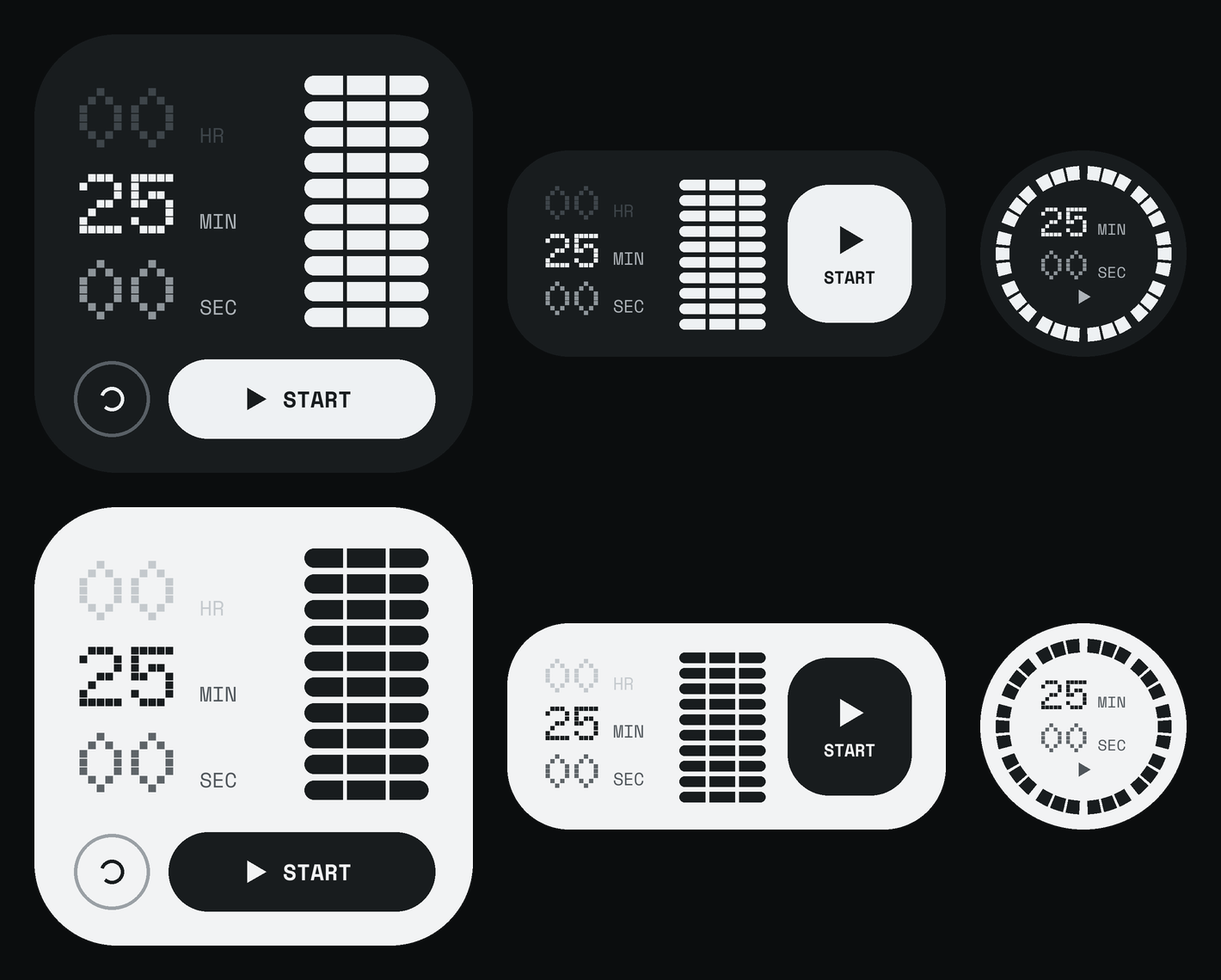
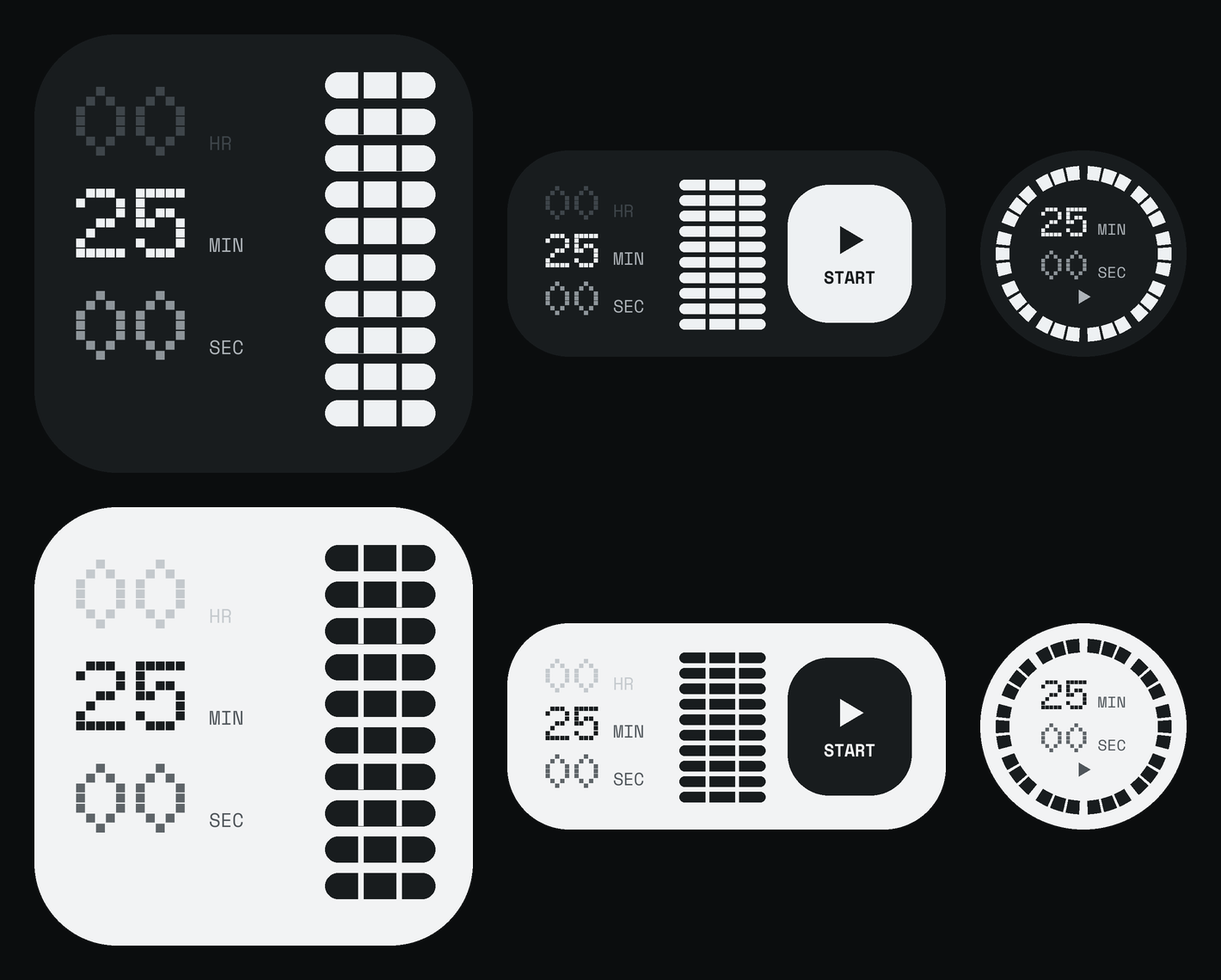
Parallax 2.1: button-free 2x2 widget, wallpaper colours, plain keypad
- 2x2 widget: no Reset/Start buttons. Tap the time to start/pause/dismiss,
  tap the pills to open the app; a small Reset chip (and its tap area)
  shows only while paused or after time's up.
- New Settings > Widgets switch "Wallpaper colours": pills and the 1x1 ring
  use the system accent colour while setting or running (off by default).
- Typing keypad: Doto digits, no sheet, border or key fills, ripple press,
  64 dp rows; 0 and 00 dim while nothing is typed.
- Typing: the status line keeps its 32 dp while hidden, so the face no
  longer touches the time chip.

Changed region(s): [[0.062, 0.5526, 0.3718, 0.9518], [0.062, 0.0614, 0.3718, 0.4605]]

diff --git a/docs/index.html b/docs/index.html
@@ -242,7 +242,7 @@ footer nav{display:flex;flex-wrap:wrap;gap:16px}
   <div class="wrap">
     <div class="col">
       <h2>Widgets and themes</h2>
-      <p>Three home screen widgets: a 2×2, a 2×1 and a round 1×1. Hours, minutes and seconds in dot-matrix digits, with 10 pills that empty a third at a time as the countdown runs (a ring of thirds on the 1×1). They tick every second, pulse red at time's up, and start the time you last set. A translucent background is an option.</p>
+      <p>Three home screen widgets: a 2×2, a 2×1 and a round 1×1. Hours, minutes and seconds in dot-matrix digits, with 10 pills that empty a third at a time as the countdown runs (a ring of thirds on the 1×1). They tick every second, pulse red at time's up, and start the time you last set. The 2×2 has no buttons: tap the time to start or pause, and a small Reset appears while paused. Pills and ring can take your wallpaper's colours, and a translucent background is an option.</p>
       <p>The app and widgets come in light and dark, following the phone or set by hand. On a Nothing phone the app uses the NDot font already on the phone, so it matches the rest of Nothing OS.</p>
     </div>
     <div class="pair">

diff --git a/app/src/com/glyphcountdown/app/MainActivity.java b/app/src/com/glyphcountdown/app/MainActivity.java
@@ -10,7 +10,9 @@ import android.graphics.Color;
 import android.graphics.Paint;
 import android.graphics.Path;
 import android.graphics.RectF;
+import android.content.res.ColorStateList;
 import android.graphics.drawable.GradientDrawable;
+import android.graphics.drawable.RippleDrawable;
 import android.hardware.Sensor;
 import android.hardware.SensorEvent;
 import android.hardware.SensorEventListener;
@@ -39,7 +41,7 @@ import android.widget.TextView;
 public class MainActivity extends Activity implements TimerState.Listener, DialView.Listener, SensorEventListener {
     // set from Palette in onCreate: BLACK is the background role, WHITE the foreground role
     private static int BLACK, WHITE, GREY, BORDER;
-    private int SUB, FAINT, CHIP, KEY, SHEET, OFF;
+    private int SUB, FAINT, CHIP, KEY, KEY_PRESS, OFF;
     private static final int RED = 0xFFE8202A;
     private boolean appliedDark;
 
@@ -54,7 +56,7 @@ public class MainActivity extends Activity implements TimerState.Listener, DialV
     private final TextView[] segDigits = new TextView[3];
     private final TextView[] segUnits = new TextView[3];
     private final LinearLayout[] segs = new LinearLayout[3];
-    private TextView setKey;
+    private TextView setKey, key0, key00;
     private ResetButton reset;
     private int bottomInset;
 
@@ -85,7 +87,7 @@ public class MainActivity extends Activity implements TimerState.Listener, DialV
         FAINT = pal.dark ? 0xFF666D72 : 0xFF868C91;
         CHIP = pal.dark ? 0xFF0B0D0E : 0xFFFFFFFF;
         KEY = pal.dark ? 0xFF1E2225 : 0xFFFFFFFF;
-        SHEET = pal.dark ? 0xFF121517 : 0xFFE6E8EA;
+        KEY_PRESS = pal.dark ? 0xFF2C3236 : 0xFFD3D7DA;
         OFF = pal.dark ? 0xFF4A5055 : 0xFFB8BDC1;
         Palette.applyBars(this, pal);
         dp = getResources().getDisplayMetrics().density;
@@ -235,13 +237,9 @@ public class MainActivity extends Activity implements TimerState.Listener, DialV
         // the keypad: slides up while typing; the big chip above is the readout
         keypad = new LinearLayout(this);
         keypad.setOrientation(LinearLayout.VERTICAL);
-        GradientDrawable sheet = new GradientDrawable();
-        float r = px(28);
-        sheet.setCornerRadii(new float[]{r, r, r, r, 0, 0, 0, 0});
-        sheet.setColor(SHEET);
-        sheet.setStroke(px(1), BORDER);
-        keypad.setBackground(sheet);
-        keypad.setClickable(true); // taps on the sheet's gaps don't fall through
+        // plain keys on the page background: no sheet, no border, no key fills
+        keypad.setBackgroundColor(BLACK);
+        keypad.setClickable(true); // taps between keys don't fall through
         String[][] keys = {{"1", "2", "3"}, {"4", "5", "6"}, {"7", "8", "9"}, {"00", "0", "DEL"}};
         for (int row = 0; row < 4; row++) {
             LinearLayout line = new LinearLayout(this);
@@ -253,22 +251,25 @@ public class MainActivity extends Activity implements TimerState.Listener, DialV
                     del.setContentDescription("Delete");
                     key = del;
                 } else {
-                    TextView t = text(k, 24, WHITE, Fonts.monoBold(this));
+                    TextView t = text(k, 36, WHITE, Fonts.doto(this));
                     t.setGravity(Gravity.CENTER);
+                    if ("0".equals(k)) key0 = t;
+                    if ("00".equals(k)) key00 = t;
                     key = t;
                 }
-                key.setBackground(rounded(KEY, px(18)));
+                // pressing shows a soft circle that fades out
+                RippleDrawable press = new RippleDrawable(ColorStateList.valueOf(KEY_PRESS), null, null);
+                press.setRadius(px(32));
+                key.setBackground(press);
                 key.setClickable(true);
                 key.setFocusable(true);
                 key.setOnClickListener(new View.OnClickListener() {
                     @Override public void onClick(View v) { onKey(k); }
                 });
-                LinearLayout.LayoutParams kl = new LinearLayout.LayoutParams(0, px(52), 1);
-                if (cI > 0) kl.leftMargin = px(6);
+                LinearLayout.LayoutParams kl = new LinearLayout.LayoutParams(0, px(64), 1);
                 line.addView(key, kl);
             }
             LinearLayout.LayoutParams ll = new LinearLayout.LayoutParams(-1, -2);
-            if (row > 0) ll.topMargin = px(6);
             keypad.addView(line, ll);
         }
         setKey = text("CANCEL", 15, BLACK, Fonts.monoBold(this));
@@ -278,7 +279,7 @@ public class MainActivity extends Activity implements TimerState.Listener, DialV
             @Override public void onClick(View v) { onSet(); }
         });
         LinearLayout.LayoutParams skl = new LinearLayout.LayoutParams(-1, px(52));
-        skl.topMargin = px(8);
+        skl.topMargin = px(12);
         keypad.addView(setKey, skl);
         keypad.setVisibility(View.GONE);
         root.addView(keypad, new FrameLayout.LayoutParams(-1, -2, Gravity.BOTTOM));
@@ -453,7 +454,7 @@ public class MainActivity extends Activity implements TimerState.Listener, DialV
         chipRow.setVisibility(typing ? View.GONE : View.VISIBLE);
         controls.setVisibility(typing ? View.INVISIBLE : View.VISIBLE);
         hint.setVisibility(typing ? View.INVISIBLE : View.VISIBLE);
-        status.setVisibility(typing ? View.GONE : View.VISIBLE);
+        status.setVisibility(typing ? View.INVISIBLE : View.VISIBLE); // keeps its 32 dp gap under the dial
         bigChip.setBackground(rounded(Color.TRANSPARENT, px(32), typing ? WHITE : BORDER, typing ? 1.5f : 1f));
         dial.setTyping(typing, typing && !typed.isEmpty() && typedSeconds() <= 86399 ? typedSeconds() : st.setSeconds());
 
@@ -478,6 +479,9 @@ public class MainActivity extends Activity implements TimerState.Listener, DialV
             interp.setText(line);
             interp.setTextColor(tooBig ? RED : typed.isEmpty() ? SUB : WHITE);
             boolean canSet = !tooBig;
+            int zeroKeys = typed.isEmpty() ? OFF : WHITE; // a leading zero does nothing
+            key0.setTextColor(zeroKeys);
+            key00.setTextColor(zeroKeys);
             setKey.setText(typed.isEmpty() ? "CANCEL" : "SET " + h + ":" + two(m) + ":" + two(s));
             setKey.setBackground(pill(canSet ? WHITE : KEY, 0));
             setKey.setTextColor(canSet ? BLACK : OFF);
@@ -555,6 +559,7 @@ public class MainActivity extends Activity implements TimerState.Listener, DialV
         st.addListener(this);
         if (gravity != null) sensors.registerListener(this, gravity, SensorManager.SENSOR_DELAY_UI);
         refresh();
+        WidgetUpdater.updateAll(this); // picks up a new wallpaper colour for the widgets
     }
 
     @Override

diff --git a/app/src/com/glyphcountdown/app/WidgetRenderer.java b/app/src/com/glyphcountdown/app/WidgetRenderer.java
@@ -9,7 +9,9 @@ import android.graphics.RectF;
 
 /**
  * Draws a widget as one bitmap (home screen widgets cannot host custom views).
- * Button positions match the transparent tap areas in res/layout/widget_*.xml.
+ * Button positions match the transparent tap areas in res/layout/widget_*.xml. The 2×2 has no
+ * buttons: tapping the time starts or pauses, tapping the pills opens the app, and a small Reset
+ * chip shows only while paused or after time's up.
  *
  * The time is three rows of dot-matrix digits (HR / MIN / SEC; two rows on the 1×1). Progress is
  * 10 pills, each 1/10 of the time that was set, split into thirds of 1/30: lit thirds =
@@ -85,11 +87,25 @@ final class WidgetRenderer {
         return (int) Math.min(30, Math.ceil(st.remainingNow() * 30.0 / st.totalMs));
     }
 
-    static Bitmap render(Context c, int kind, int w, int h, TimerState st, boolean dark, boolean translucent) {
+    /** Whether the 2×2 shows its Reset chip (and so its tap area): only while paused or ringing. */
+    static boolean showsReset(TimerState st) {
+        return st.mode == TimerState.PAUSE || st.mode == TimerState.DONE;
+    }
+
+    /**
+     * Draws one widget. wallpaper: lit and empty thirds take the wallpaper's accent (Material You
+     * system colours) while setting or running; paused stays grey and time's up stays red.
+     */
+    static Bitmap render(Context c, int kind, int w, int h, TimerState st, boolean dark, boolean translucent,
+                         boolean wallpaper) {
         Theme t = dark ? DARK : LIGHT;
         Bitmap bm = Bitmap.createBitmap(Math.max(w, 1), Math.max(h, 1), Bitmap.Config.ARGB_8888);
         Canvas cv = new Canvas(bm);
         Look l = look(st, t);
+        if (wallpaper && (st.mode == TimerState.SET || st.mode == TimerState.RUN)) {
+            l.on = c.getColor(dark ? android.R.color.system_accent1_200 : android.R.color.system_accent1_600);
+            l.off = c.getColor(dark ? android.R.color.system_accent1_800 : android.R.color.system_accent1_100);
+        }
         Paint p = new Paint(Paint.ANTI_ALIAS_FLAG);
         p.setColor(translucent ? t.cardTranslucent : t.card);
 
@@ -104,18 +120,25 @@ final class WidgetRenderer {
         if (kind == K4) {
             float k = Math.min(w, h) / 255f;
             cv.drawRoundRect(new RectF(0, 0, w, h), 48 * k, 48 * k, p);
-            rows3(cv, l, doto, mono, 26 * k, 24 * k, 50 * k, 4 * k, 12 * k, 10 * k);
-            pills(cv, l, w - 26 * k - 72 * k, 24 * k, 72 * k, 11 * k, 4 * k, 2 * k);
-            // button row: reset, then the labelled start/pause button filling the rest
-            float by = h - 66 * k, bh = 46 * k; // 74 %–92 % of a square widget, matching widget_2x2.xml
-            Paint ring = new Paint(Paint.ANTI_ALIAS_FLAG);
-            ring.setStyle(Paint.Style.STROKE);
-            ring.setStrokeWidth(2 * k);
-            ring.setColor(t.line);
-            cv.drawCircle(22 * k + bh / 2, by + bh / 2, bh / 2 - k, ring);
-            resetIcon(cv, 22 * k + bh / 2, by + bh / 2, 7 * k, t.fg, k);
-            float bx = 22 * k + bh + 10 * k;
-            labelButton(cv, l, bold, new RectF(bx, by, w - 22 * k, by + bh), bh / 2, 13 * k, 16 * k, k, false);
+            // no buttons: the time fills the card (tap it to start or pause), pills on the right
+            rows3(cv, l, doto, mono, 24 * k, 22 * k, 58 * k, 6 * k, 11 * k, 8 * k);
+            pills(cv, l, w - 22 * k - 64 * k, 22 * k, 64 * k, 15 * k, 6.2f * k, 3 * k);
+            if (showsReset(st)) {
+                // small Reset chip bottom-left, matching w_reset in widget_2x2.xml (x 0–49 %, y 80–100 %)
+                RectF r = new RectF(20 * k, 206 * k, 112 * k, 234 * k);
+                Paint ring = new Paint(Paint.ANTI_ALIAS_FLAG);
+                ring.setStyle(Paint.Style.STROKE);
+                ring.setStrokeWidth(1.5f * k);
+                ring.setColor(withAlpha(l.done ? t.red : t.line, l.alpha));
+                cv.drawRoundRect(r, r.height() / 2, r.height() / 2, ring);
+                int fg = withAlpha(l.done ? t.red : t.fg, l.alpha);
+                resetIcon(cv, r.left + 15 * k, r.centerY(), 5.5f * k, fg, k);
+                bold.setTextSize(10 * k);
+                bold.setLetterSpacing(0.2f);
+                bold.setColor(fg);
+                Paint.FontMetrics fm = bold.getFontMetrics();
+                cv.drawText("RESET", r.left + 27 * k, r.centerY() - (fm.ascent + fm.descent) / 2, bold);
+            }
         } else if (kind == K2) {
             float k = Math.min(h / 120f, w / 255f);
             cv.drawRoundRect(new RectF(0, 0, w, h), 36 * k, 36 * k, p);

diff --git a/app/src/com/glyphcountdown/app/WidgetUpdater.java b/app/src/com/glyphcountdown/app/WidgetUpdater.java
@@ -7,6 +7,7 @@ import android.content.Context;
 import android.content.Intent;
 import android.graphics.Bitmap;
 import android.os.Bundle;
+import android.view.View;
 import android.widget.RemoteViews;
 
 /** Redraws every placed widget from the current timer state. */
@@ -41,6 +42,7 @@ final class WidgetUpdater {
 
             TimerState st = TimerState.get();
             boolean translucent = Prefs.get(c, Prefs.TRANSLUCENT);
+            boolean wallpaper = Prefs.get(c, Prefs.WALLPAPER_COLOURS);
             // Both appearances are sent; the layout and layout-night variants each show one, so the
             // widget follows Settings › Display › Appearance even when this app isn't running.
             // Theme chosen in Settings: Light or Dark fills both slots with that theme, so the
@@ -48,10 +50,10 @@ final class WidgetUpdater {
             String theme = Palette.choice(c);
             Bitmap light, dark;
             if (Palette.PHONE.equals(theme)) {
-                light = WidgetRenderer.render(c, kind, w, h, st, false, translucent);
-                dark = WidgetRenderer.render(c, kind, w, h, st, true, translucent);
+                light = WidgetRenderer.render(c, kind, w, h, st, false, translucent, wallpaper);
+                dark = WidgetRenderer.render(c, kind, w, h, st, true, translucent, wallpaper);
             } else {
-                light = dark = WidgetRenderer.render(c, kind, w, h, st, Palette.DARK.equals(theme), translucent);
+                light = dark = WidgetRenderer.render(c, kind, w, h, st, Palette.DARK.equals(theme), translucent, wallpaper);
             }
             String pkg = c.getPackageName();
             int layout = res(c, "layout", kind == WidgetRenderer.K1 ? "widget_1x1"
@@ -79,10 +81,11 @@ final class WidgetUpdater {
                         new Intent(c, TimerService.class).setAction(TimerService.ACTION_RESET)
                                 .putExtra(TimerService.EXTRA_FG, true),
                         PendingIntent.FLAG_IMMUTABLE | PendingIntent.FLAG_UPDATE_CURRENT);
-                rv.setOnClickPendingIntent(res(c, "id", "w_reset"), reset);
-                for (String n : new String[]{"w_open", "w_open2", "w_open3", "w_open4"}) {
-                    rv.setOnClickPendingIntent(res(c, "id", n), open);
-                }
+                int resetId = res(c, "id", "w_reset");
+                rv.setOnClickPendingIntent(resetId, reset);
+                // the Reset chip and its tap area exist only while paused or ringing
+                rv.setViewVisibility(resetId, WidgetRenderer.showsReset(st) ? View.VISIBLE : View.GONE);
+                rv.setOnClickPendingIntent(res(c, "id", "w_open"), open);
             }
             m.updateAppWidget(id, rv);
         }

diff --git a/tools/make_previews.py b/tools/make_previews.py
@@ -60,21 +60,9 @@ def make(theme, suffix):
     w = h = 510; k = w / 255 * S
     im = Image.new("RGBA", (w * S, h * S), (0, 0, 0, 0)); d = ImageDraw.Draw(im)
     d.rounded_rectangle([0, 0, w * S - 1, h * S - 1], radius=48 * k, fill=t["card"])
-    rows3(d, t, 26 * k, 24 * k, 50 * k, 4 * k, 12 * k, 10 * k)
-    pills(d, t, w * S - 26 * k - 72 * k, 24 * k, 72 * k, 11 * k, 4 * k, 2 * k)
-    by, bh = h * S - 66 * k, 46 * k
-    cx = 22 * k + bh / 2
-    d.ellipse([22 * k + k, by + k, 22 * k + bh - k, by + bh - k], outline=t["line"], width=int(2 * k))
-    r = 7 * k
-    d.arc([cx - r, by + bh / 2 - r, cx + r, by + bh / 2 + r], 200, 130, fill=t["fg"], width=int(2 * k))
-    bx = 22 * k + bh + 10 * k
-    d.rounded_rectangle([bx, by, w * S - 22 * k, by + bh], radius=bh / 2, fill=t["btn"])
-    f = mono(13 * k, True)
-    tw = d.textlength("START", font=f) + 13 * k * 0.12 * 4
-    total = 16 * k + 8 * k + tw
-    ix = (bx + w * S - 22 * k) / 2 - total / 2 + 8 * k
-    play(d, ix, by + bh / 2, 8 * k, t["btnfg"])
-    d.text((ix + 8 * k + 8 * k, by + bh / 2), "START", font=f, fill=t["btnfg"], anchor="lm")
+    # no buttons: tap the time to start or pause, the pills to open the app (Reset shows only when paused)
+    rows3(d, t, 24 * k, 22 * k, 58 * k, 6 * k, 11 * k, 8 * k)
+    pills(d, t, w * S - 22 * k - 64 * k, 22 * k, 64 * k, 15 * k, 6.2 * k, 3 * k)
     im.resize((w, h), Image.LANCZOS).save(f"app/res/drawable-nodpi/widget_prev{suffix}_4.png")
     # 2×1
     w, h = 510, 240; k = min(h / 120, w / 255) * S

diff --git a/app/src/com/glyphcountdown/app/SettingsActivity.java b/app/src/com/glyphcountdown/app/SettingsActivity.java
@@ -158,6 +158,8 @@ public class SettingsActivity extends Activity {
                 "Dark while the screen is on. In a pocket, a bag or face-up on a table it's always dark, by itself."), rowLp());
 
         section(col, "WIDGETS");
+        col.addView(toggle(Prefs.WALLPAPER_COLOURS, "Wallpaper colours",
+                "Pills and ring use your wallpaper's accent colour. Off: white, like the matrix."), rowLp());
         col.addView(toggle(Prefs.TRANSLUCENT, "Translucent background",
                 "See-through widgets, like Nothing OS 5.0’s translucent style."), rowLp());
 
@@ -232,7 +234,7 @@ public class SettingsActivity extends Activity {
                 sw.invalidate();
                 Prefs.set(SettingsActivity.this, key, sw.on);
                 row.setContentDescription(label + ", " + (sw.on ? "on" : "off"));
-                if (Prefs.TRANSLUCENT.equals(key)) WidgetUpdater.updateAll(SettingsActivity.this);
+                if (Prefs.TRANSLUCENT.equals(key) || Prefs.WALLPAPER_COLOURS.equals(key)) WidgetUpdater.updateAll(SettingsActivity.this);
             }
         });
         return row;

diff --git a/app/src/com/glyphcountdown/app/Prefs.java b/app/src/com/glyphcountdown/app/Prefs.java
@@ -5,7 +5,7 @@ import android.content.SharedPreferences;
 
 /** On/off settings from the Settings screen. */
 final class Prefs {
-    static final String TRANSLUCENT = "widget_translucent",
+    static final String TRANSLUCENT = "widget_translucent", WALLPAPER_COLOURS = "widget_wallpaper_colours",
             VIBRATE = "alarm_vibrate", SCREEN_OFF_ONLY = "matrix_screen_off_only", SYNC = "anim_sync",
             DIM = "anim_dim", PICKUP_DISMISS = "pickup_dismiss";
     private static final String ANIM = "times_up_animation";
@@ -17,7 +17,8 @@ final class Prefs {
     }
 
     static boolean get(Context c, String key) {
-        return p(c).getBoolean(key, !TRANSLUCENT.equals(key)); // everything but translucency defaults on
+        // everything defaults on except the two widget looks, which keep the plain style until chosen
+        return p(c).getBoolean(key, !TRANSLUCENT.equals(key) && !WALLPAPER_COLOURS.equals(key));
     }
 
     static void set(Context c, String key, boolean on) {

diff --git a/tools/ApkBuilder.java b/tools/ApkBuilder.java
@@ -61,7 +61,7 @@ public class ApkBuilder {
         }
         String[][] widgets = {{"1", "1x1", "Time left inside a ring of thirds. Tap to start or pause."},
                 {"2", "2x1", "Hours, minutes and seconds with a start/pause button."},
-                {"4", "2x2", "Hours, minutes, seconds and pills in thirds, with reset and start/pause."}};
+                {"4", "2x2", "Hours, minutes, seconds and pills in thirds. Tap the time to start or pause."}};
         for (String[] wd : widgets) {
             for (String v : new String[]{"widget_prev_", "widget_prev_light_"}) {
                 pkg.getOrCreate("-nodpi", "drawable", v + wd[0])

diff --git a/CLAUDE.md b/CLAUDE.md
@@ -9,12 +9,14 @@ Parallax (formerly Glyph Countdown) is an Android countdown timer for the Nothin
 - **Repository:** `m0n0t0ne0ne/glyph-countdown`, default branch `main`. Use this repo, not the old `miesesk` one.
 - **Website:** https://m0n0t0ne0ne.github.io/glyph-countdown/, served by GitHub Pages from `/docs` on `main`.
 - **Releases:** https://github.com/m0n0t0ne0ne/glyph-countdown/releases/latest. The APK is named `Parallax-<version>.apk` (`GlyphCountdown-…` up to 1.5.2).
-- **Current release:** **2.0** (versionCode 19): the rename to Parallax, the face-as-dial timer screen with Google Clock-style typing, the new widget suite and icon.
+- **Current release:** **2.1** (versionCode 21): button-free 2×2 widget (tap the time to start/pause, Reset only while paused), wallpaper colours for widgets, plain Doto keypad.
 - **Stack:** plain Java, with no Gradle and no Android Studio. `setup-deps.sh` downloads pinned build tools into `deps/`, and `build.sh` builds `out/Parallax.apk`. Nothing's Glyph Matrix SDK is downloaded at build time and is never committed, because its licence forbids redistributing it.
[1 lines of base64/hex data omitted]
 
 | Version | Change |
 | --- | --- |
+| 2.1 | Button-free 2×2 widget, wallpaper colours for widgets, plain Doto keypad, gap under the face while typing |
+| 2.0.1 | Timer screen text fits on a real phone |
 | 2.0 | Renamed Parallax; face-as-dial timer screen, typed times, new widgets and icon |
 | 1.5.2 | **00** button to the right of Start zeroes the dial (setting only; greyed out while running or paused) |
 | 1.5.1 | No dark gap when laying the phone down or picking it up |
@@ -120,7 +122,7 @@ All app code is in `app/src/com/glyphcountdown/app/`. These are the files most c
 | `MatrixRenderer.java` | 25 × 25 and 13 × 13 frames. No Android code, so it runs on a desktop JVM |
 | `MorphEngine.java`, `SoundSync.java` | Time's-up animations and stutter sync to the alarm sound |
 | `TimesUpActivity.java`, `Prefs.java` | Time's up page and saved switches (all on by default except translucent widgets) |
-| `Widget*.java`, `WidgetRenderer.java` | Home-screen widgets (2.0): three rows of dot digits and 10 pills split into thirds; the 1×1 has a ring of thirds. Previews come from `tools/make_previews.py`, the icon from `tools/make_icon.py` |
+| `Widget*.java`, `WidgetRenderer.java` | Home-screen widgets (2.0): three rows of dot digits and 10 pills split into thirds; the 1×1 has a ring of thirds. The 2×2 has no buttons (2.1): tap the time to toggle, the pills to open the app; `w_reset` is shown only while paused or ringing. Widgets can only receive taps: a swipe test on the Phone (3) showed sideways swipes go to the launcher and up/down swipes never reach the app. Previews come from `tools/make_previews.py`, the icon from `tools/make_icon.py` |
 | `.github/workflows/release.yml` | Auto-release on a version change, gated by the `release` environment |
 | `docs/` | Website (`index.html`, `assets/`), design images, release notes |
 

diff --git a/README.md b/README.md
@@ -44,7 +44,7 @@
   - **Sync with alarm sound:** the animation stutters on every note, snapping back, holding, then carrying on.
   - **Dim with notes**, with a **Dim level** slider; **Vibrate**; **Pick up to dismiss**.
 - **Both matrix sizes:** on the Phone (3)'s 25 × 25 matrix, H:MM from an hour up, then MM:SS. On the Phone (4a) Pro's 13 × 13 matrix, one number: hours, minutes, or seconds in the last minute.
-- **Widgets:** a 2×2, a 2×1 and a round 1×1. Hours, minutes and seconds in dot-matrix digits, with 10 pills that empty a third at a time as the countdown runs (a ring of thirds on the 1×1). They tick every second, pulse red at time's up, and start the time you last set. Translucent background optional.
+- **Widgets:** a 2×2, a 2×1 and a round 1×1. Hours, minutes and seconds in dot-matrix digits, with 10 pills that empty a third at a time as the countdown runs (a ring of thirds on the 1×1). They tick every second, pulse red at time's up, and start the time you last set. The 2×2 has no buttons: tap the time to start or pause, and a small Reset appears while paused. Optional: a translucent background, and pills and ring in your wallpaper's colours.
 - **Light and dark:** the app and widgets follow the phone or a theme you pick. On a Nothing phone the app uses the NDot font already on the phone.
 - **TalkBack:** the face announces the time and can be adjusted by swiping up or down.
 
@@ -82,7 +82,7 @@ Tap the gear on the timer screen.
 | Time's up | Animation, sound, sync, dimming, dim level, vibrate, pick up to dismiss |
 | Glyph Matrix | Countdown style · Only when screen is off |
 | Appearance | Theme: Phone, Light or Dark |
-| Widgets | Translucent background |
+| Widgets | Wallpaper colours, Translucent background |
 
 ### Good to know
 

diff --git a/docs/release-notes/v2.1.md b/docs/release-notes/v2.1.md
@@ -1,0 +1,16 @@
+A cleaner 2×2 widget, widgets in your wallpaper's colours, and a calmer keypad.
+
+### New
+- **Wallpaper colours for widgets:** a new switch in Settings › Widgets. When it's on, the pills and the 1×1 ring take your wallpaper's accent colour (the same one Android's own wallpaper colours use). The digits stay white for easy reading; paused stays grey and time's up stays red. It's off by default.
+
+### Changed
+- **The 2×2 widget has no buttons.** Tap the time to start, pause or dismiss, and tap the pills to open the app. A small **Reset** appears only while the timer is paused or after time's up.
+- **The typing keypad** uses the app's dot font, with no key backgrounds or border, so the keys sit on the plain background. Each key shows a soft circle when you press it. **0** and **00** are dimmed until you've typed a first digit, since a leading zero does nothing.
+
+### Fixed
+- **While typing a time,** the face no longer touches the time chip; there's now a gap between them.
+
+### Install
+Download the APK below and open it on your phone; it installs over earlier versions and keeps your settings. Requires Android 13+.
+
+Built and signed by GitHub Actions from the released commit. Unofficial app, not affiliated with Nothing. Provided as-is under the MIT licence.
